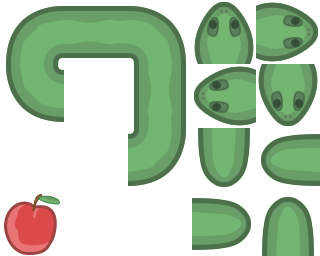
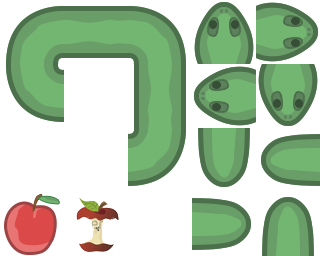
-

Changed region(s): [[0.2188, 0.7812, 0.375, 1.0]]

diff --git a/scripts/pixi-visualizer.js b/scripts/pixi-visualizer.js
@@ -25,6 +25,9 @@ class PixiVisualizer {
 		this.python_body = [];
 
 		//
+		this.assets_array = [];
+
+		//
 		this.SPRITE_WIDTH = 64;
 		this.SPRITE_HEIGHT = 64;
 
@@ -39,10 +42,10 @@ class PixiVisualizer {
 		//
 		this.snake_parts = {};
 		
-		this.snake_parts[1] = { frame_position: [4,3], angle: 180 * window.Utils.DEG2RAD, frame_name: 'tail-down'};//tail down
-		this.snake_parts[2] = { frame_position: [4,2], angle: 90 * window.Utils.DEG2RAD, frame_name: 'tail-right'};//tail right
-		this.snake_parts[4] = { frame_position: [3,3], angle: 270 * window.Utils.DEG2RAD, frame_name: 'tail-left'};//tail left
-		this.snake_parts[8] = { frame_position: [3,2], angle: 0, frame_name: 'tail-up'};//tail up
+		this.snake_parts[1] = { frame_position: [4,3], angle: 180 * window.Utils.DEG2RAD, frame_name: 'down'};//tail down
+		this.snake_parts[2] = { frame_position: [4,2], angle: 90 * window.Utils.DEG2RAD, frame_name: 'right'};//tail right
+		this.snake_parts[4] = { frame_position: [3,3], angle: 270 * window.Utils.DEG2RAD, frame_name: 'left'};//tail left
+		this.snake_parts[8] = { frame_position: [3,2], angle: 0, frame_name: 'up'};//tail up
 
 		this.snake_parts[1+2] = { frame_position: [0,0], frame_name: '┘'};// UL  ┘
 		this.snake_parts[1+8] = { frame_position: [2,1], frame_name: '|'};// UD  |
@@ -61,14 +64,22 @@ class PixiVisualizer {
 		}.bind(this));
 
 		window.addEventListener( "screens: start game" , function () {
-			this.showSnakeBodyParts();
+			
+			// this.removeSnakeBodyPart();
+			this.addSnakeBodyParts();
 			this.updateBonusPosition();
+			this.updateRottenBonusPosition();
 			this.moveActionGame();
 		}.bind(this));
 
 		window.addEventListener( python.PYTHON_GET_POINT , function () {
 			this.updateBonusPosition();
 			this.growPython();
+		}.bind(this));
+
+		window.addEventListener( python.PYTHON_LOST_POINT , function () {
+			this.updateRottenBonusPosition();
+			this.removeSnakeBodyPart();
 		}.bind(this));
 
 		window.addEventListener( python.GAME_OVER , function () {
@@ -83,7 +94,6 @@ class PixiVisualizer {
 		var canvas = document.getElementsByTagName('canvas')[0];
 
 		var x = 0;
-		var y = 0;
 		var t = 0;
 		var amp = 10;
 
@@ -94,7 +104,6 @@ class PixiVisualizer {
 		  }
 		  t += .1;
 		  x = Math.sin(t)*amp;
-		  y = Math.cos(t/2)*amp;
 		  canvas.style.left = amp + x + "px"
 		  amp -= .05;
 		}, 5);
@@ -124,29 +133,41 @@ class PixiVisualizer {
 	}
 
 	createGameCharacters() {
-		// SNAKE
- 		var head = this.head_sprite = this.getSprite( this.ASSETS_PATH+"snake-graphics.png", 4, 1, 64, 64 );
- 		this.bg_container.addChild(head);
+		//SNAKE
+		var head = this.head_sprite = this.getSprite( this.ASSETS_PATH+"snake-graphics.png", 4, 1, 64, 64 );
 
  		var straight_body = this.straight_body_sprite = this.getSprite( this.ASSETS_PATH+"snake-graphics.png", 1, 0, 64, 64 );
- 		this.bg_container.addChild( straight_body );
 
  		var tail = this.tail_sprite = this.getSprite( this.ASSETS_PATH+"snake-graphics.png", 3, 2, 64, 64 );
- 		this.bg_container.addChild( tail );
 
  		this.python_body.push( { sprite: head, frame_name:'head-right'}, {sprite: straight_body, frame_name:'-'}, {sprite: tail, frame_name: 'tail-right'});
 
- 		for ( var i = 0; i < this.python_body.length; i++ ){
- 			this.python_body[i].sprite.visible = false;
- 		}
-
  		//BONUS
  		var bonus = this.bonus_sprite = this.getSprite( this.ASSETS_PATH+"snake-graphics.png", 0, 3, 64, 64 );
+ 		var rotten_bonus = this.rotten_bonus_sprite = this.getSprite( this.ASSETS_PATH+"snake-graphics.png", 1, 3, 64, 64 );
 
 	}
 
 	// <<< CREATING GAME FIELD AND CHARACTERS <<<
 
+	// DELETE
+	removeSnakeBodyPart() {
+
+
+		var last_index = this.python_body.length - 1;
+
+
+
+		this.python_body[last_index - 1] = this.python_body[last_index];
+
+
+		this.bg_container.removeChild(this.python_body[last_index].sptrite);
+		this.python_body.pop();
+
+		this.assets_array.push(this.python_body[last_index - 1]);
+
+		console.log(this.python_body);
+	}
 
 	// >>> MOVE PYTHON >>>
 	moveActionGame() {
@@ -158,6 +179,7 @@ class PixiVisualizer {
 	updateBody() {
 
 		var python_body = python.python_body;
+		console.log(this.python_body[0])
 
 		//BODY
 		for ( var i = 0; i < python_body.length; i++ ) {
@@ -219,10 +241,21 @@ class PixiVisualizer {
 
 		var part_oriented_data = this.snake_parts[ prev_part_id + next_part_id ];
 
-		var new_part = this.getSprite( this.ASSETS_PATH+"snake-graphics.png", part_oriented_data.frame_position[0], part_oriented_data.frame_position[1], 64, 64 );
- 		this.bg_container.addChild( new_part );
+		if ( this.assets_array.length ) {
+			var sprite = this.assets_array.pop(); 
+			sprite.texture.frame = new PIXI.Rectangle(
+					part_oriented_data.frame_position[0] * this.SPRITE_WIDTH,
+					part_oriented_data.frame_position[1] * this.SPRITE_HEIGHT,
+					this.SPRITE_WIDTH, this.SPRITE_HEIGHT
+			);
+		}
+		else var sprite = this.getSprite( this.ASSETS_PATH+"snake-graphics.png", 
+																				part_oriented_data.frame_position[0], 
+																				part_oriented_data.frame_position[1], 64, 64 );
 
-		this.python_body.splice(last_index - 1, 0, {sprite: new_part, frame_name: part_oriented_data.frame_name });
+ 		this.bg_container.addChild( sprite );
+
+		this.python_body.splice(last_index - 1, 0, {sprite: sprite, frame_name: part_oriented_data.frame_name });
 	}
 
 	// <<< MOVE PYTHON <<<
@@ -236,11 +269,18 @@ class PixiVisualizer {
 		this.bg_container.addChild( this.bonus_sprite );
 	}
 
-	showSnakeBodyParts() {
+	updateRottenBonusPosition() {
+		this.setSpritePosition( this.rotten_bonus_sprite, this.python.rotten_bonus.x, this.python.rotten_bonus.y );
+		this.bg_container.addChild( this.rotten_bonus_sprite );
+	}
+
+	addSnakeBodyParts() {
 		for ( var i = 0; i < this.python_body.length; i++ ){
- 			this.python_body[i].sprite.visible = true;
+ 			this.bg_container.addChild(this.python_body[i].sprite);
  		}
 	}
+
+	
 
 	// <<< BONUS UPDATE <<<
 
@@ -305,8 +345,7 @@ class PixiVisualizer {
 
 			function _setup() {
 				scope.createGameField();
-		 		scope.createGameCharacters();
-		 		scope.visualizeParticles();
+				scope.createGameCharacters();
 		 		Utils.triggerCustomEvent( window, scope.PRELOAD_COMPLETE );
 			}
 	}

diff --git a/scripts/python.js b/scripts/python.js
@@ -5,6 +5,7 @@ class Python {
 		//
 		this.PYTHON_MOVED = "python:draw";
 		this.PYTHON_GET_POINT = "python:python get point";
+		this.PYTHON_LOST_POINT = "python:python lost point";
 		this.GAME_OVER = "python: game over";
 		this.PAUSE = "python: pause active";
 		this.PLAY = "python: pause inactive";
@@ -44,6 +45,8 @@ class Python {
 
 		//
 		this.bonus = {};
+
+		this.rotten_bonus = {};
 
 		//
 		this.cells_horizontal = config.cells_horizontal || 20;
@@ -128,7 +131,7 @@ class Python {
 		this.pause = _paused;
 		Utils.triggerCustomEvent( window, _paused ? this.PAUSE : this.PLAY );
 		Utils.triggerCustomEvent( window, this.PAUSE_SOUND );
-		
+
 
 	}
 
@@ -138,6 +141,7 @@ class Python {
 		console.log('#START GAME');
 			
 		var scope = this;
+
 
 		if(!this.gameStep){
 
@@ -167,12 +171,14 @@ class Python {
 
 		this.points = 0;
 		this.generateNewBonus();
+		this.generateNewRottenBonus();
 
-		this.python_direction = this.directions[this.RIGHT];
 
 		this.resetPyhon();
 
 		this.inputController.enabled = true;
+
+		this.python_direction = this.directions[this.RIGHT];
 
 		if ( this.game_timeout ) clearTimeout(this.game_timeout);
 		this.gameStep();
@@ -190,6 +196,9 @@ class Python {
 		this.python_body.unshift( next_head_position );
 
 		// check if bonus is eaten
+
+		console.log(this.rotten_bonus.x, this.rotten_bonus.y)
+		console.log(next_head_position.x, next_head_position.y)
 		if ( next_head_position.x == this.bonus.x && next_head_position.y == this.bonus.y ) {
 			this.points += this.bonus.point;
 			this.generateNewBonus();
@@ -197,8 +206,20 @@ class Python {
 			Utils.triggerCustomEvent( window, this.PYTHON_GET_POINT );
 			Utils.triggerCustomEvent( window, this.PLAY_SOUND, {sound_id: "bonus", loop: false} );
 		
-		}else{ // if not
+		}else if (next_head_position.x == this.rotten_bonus.x && next_head_position.y == this.rotten_bonus.y){ 
+			var last_index = this.python_body.length - 1;
+
+			this.points -= this.rotten_bonus.point;
+			console.log('PYTHON: ', this.python_body);
+			this.python_body.splice(last_index - 1, 1);
+
+
+			this.generateNewRottenBonus();
+			Utils.triggerCustomEvent( window, this.PYTHON_LOST_POINT );
+			console.log('PYTHON: ', this.python_body);
 			
+
+		} else {// if not
 			this.python_body.pop();
 
 		}
@@ -223,6 +244,17 @@ class Python {
 		this.bonus.point = 1
 		
 		if ( !this.checkBonusCoordinatesCorrect(this.bonus.x, this.bonus.y) ) this.generateNewBonus();
+		
+	}
+
+	generateNewRottenBonus() {
+		var point = 1;
+		var offset = 1;
+		this.rotten_bonus.x = ~~( Math.random() * (this.cells_horizontal - offset*2) + offset ),
+		this.rotten_bonus.y = ~~( Math.random() * (this.cells_vertical - offset*2) + offset ),
+		this.rotten_bonus.point = 1
+		
+		if ( !this.checkBonusCoordinatesCorrect(this.rotten_bonus.x, this.rotten_bonus.y) ) this.generateNewRottenBonus();
 		
 	}
 
